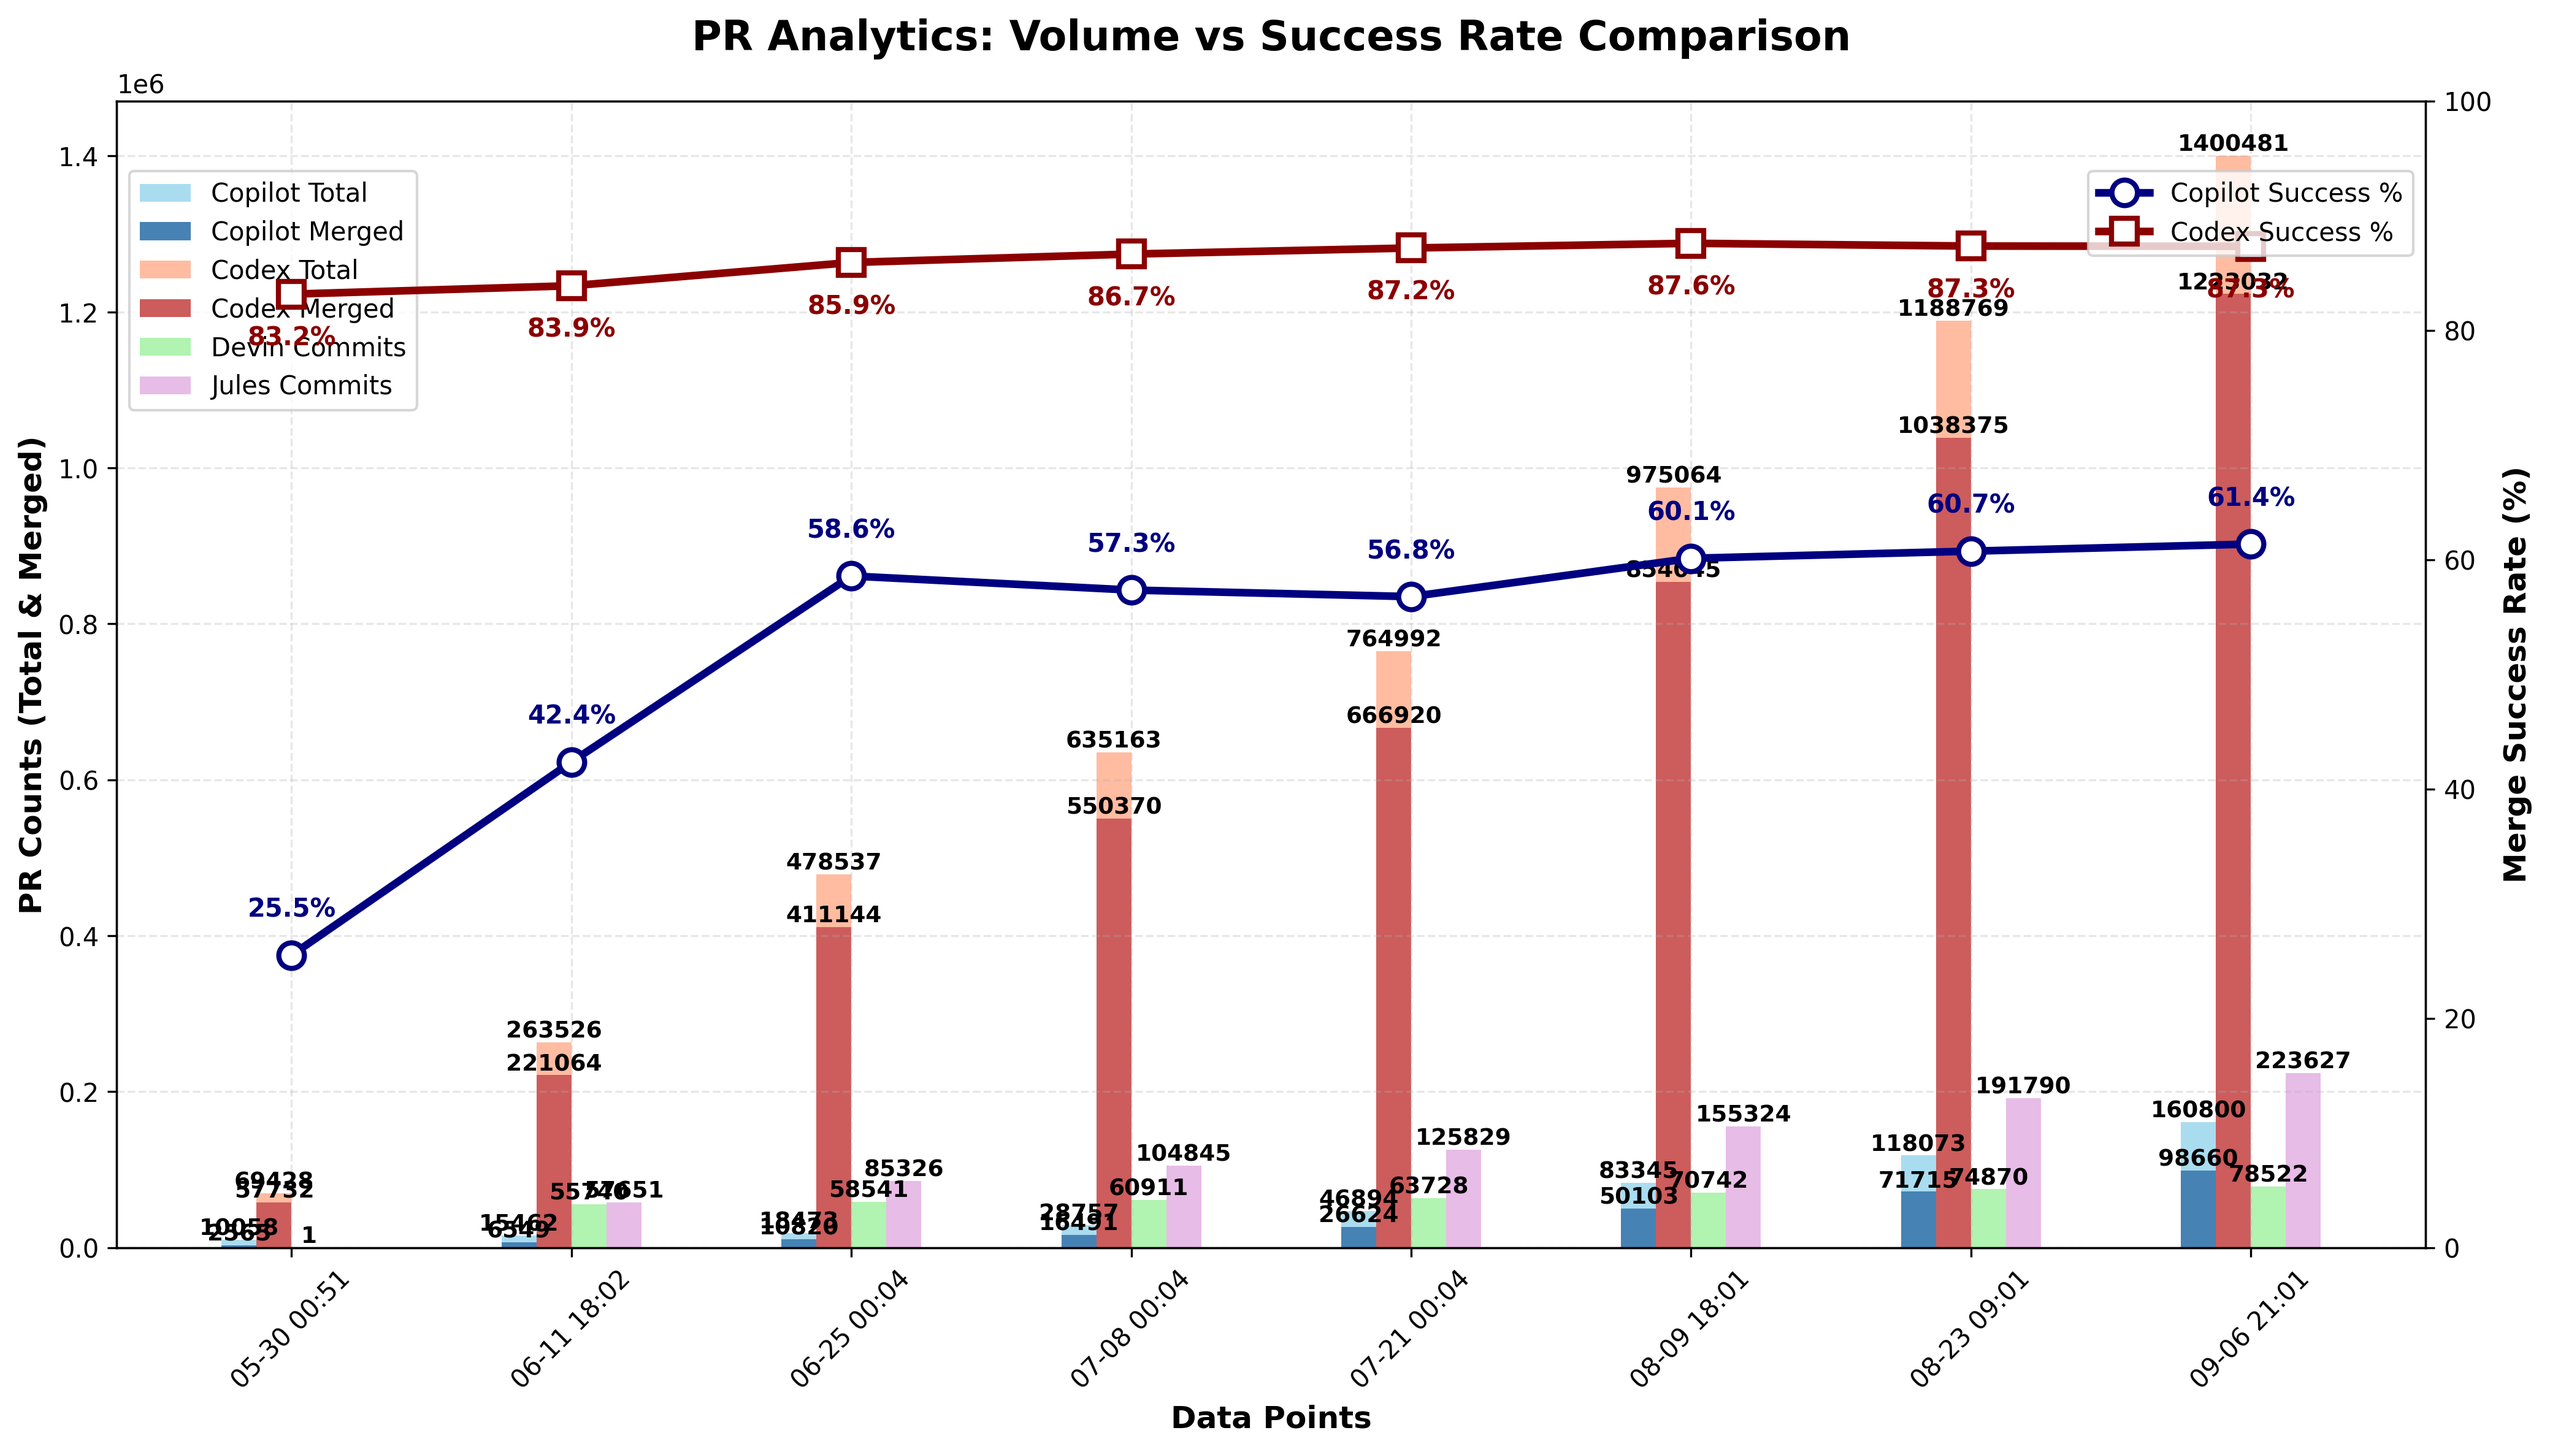
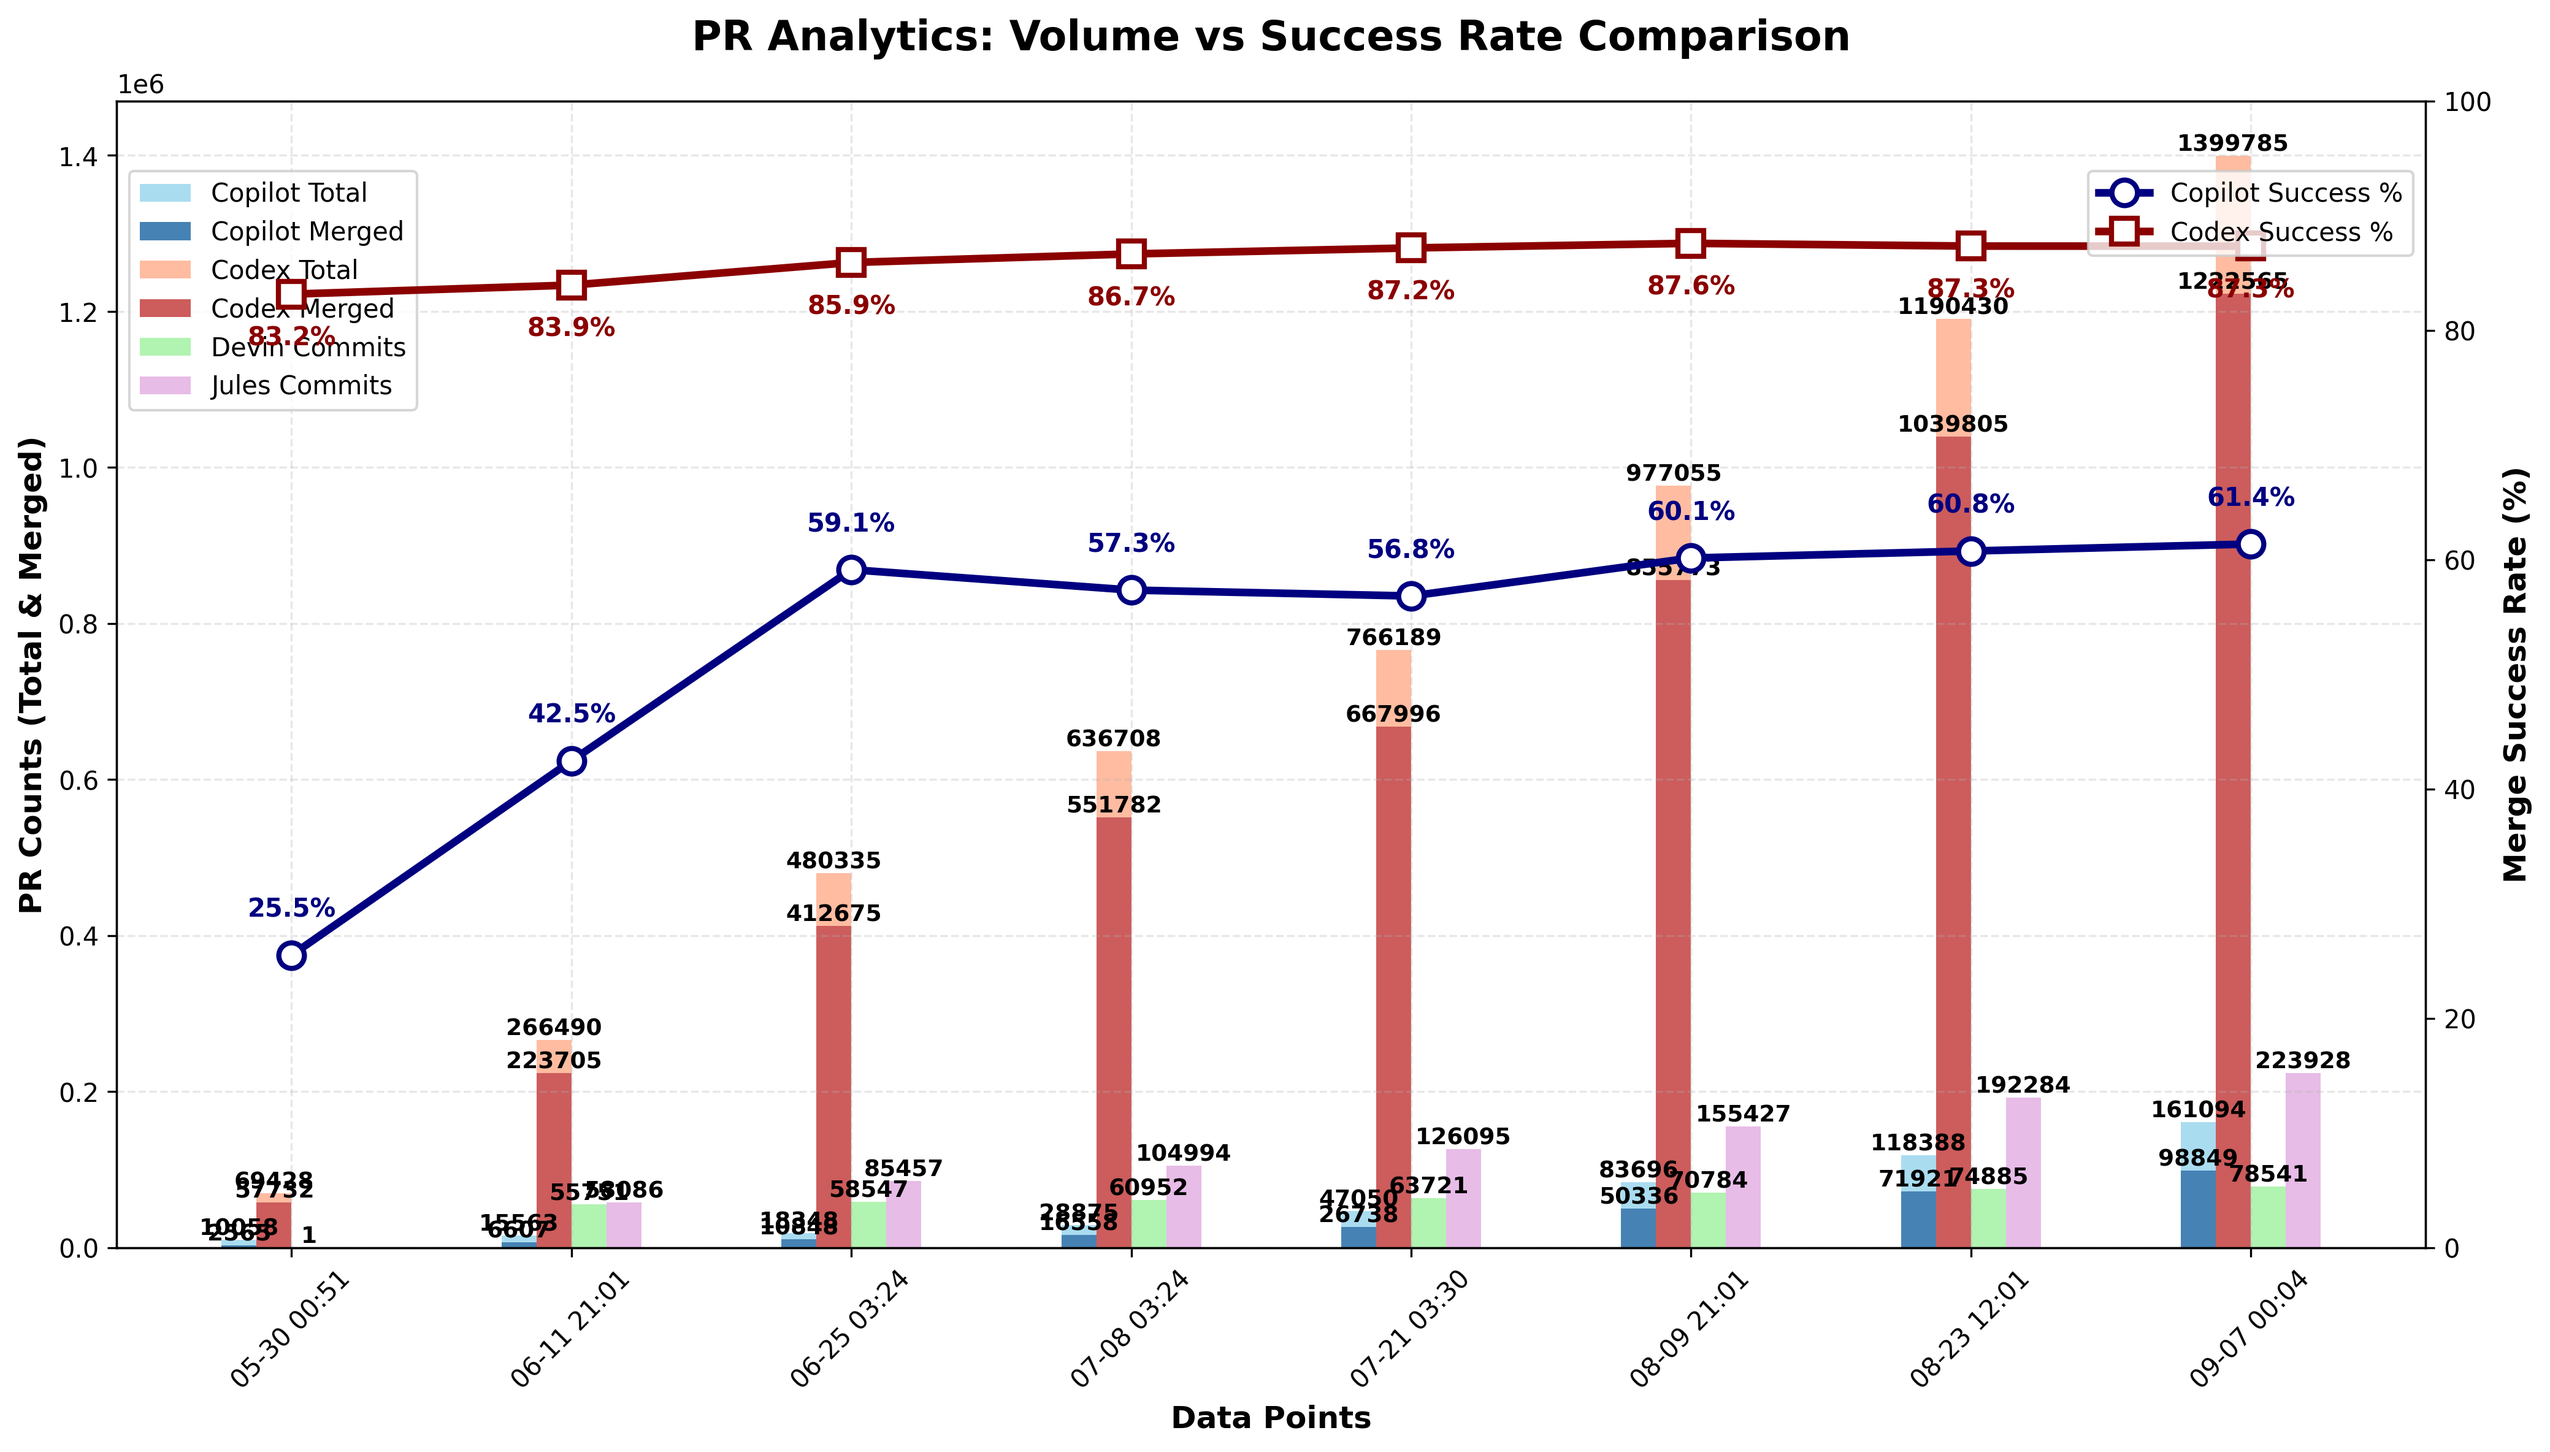
chore: update PR‑approval chart

diff --git a/docs/index.html b/docs/index.html
@@ -775,6 +775,7 @@
                         <td>N/A</td>
                         <td>N/A</td>
                         <td>N/A</td>
+                        <td>N/A</td>
                     </tr>
                     <tr>
                         <td>Codex</td>
@@ -1508,27 +1509,28 @@
                         <td>N/A</td>
                         <td>N/A</td>
                         <td>N/A</td>
+                        <td>N/A</td>
                     </tr>
                 <tr>
                         <td>Devin</td>
                         <td>N/A</td>
                         <td>N/A</td>
                         <td>N/A</td>
-                        <td>78,522</td>
+                        <td>78,541</td>
                     </tr>
                     <tr>
                         <td>Jules</td>
                         <td>N/A</td>
                         <td>N/A</td>
                         <td>N/A</td>
-                        <td>223,627</td>
+                        <td>223,928</td>
                     </tr>
                     </tbody>
             </table>
         </section>
 
         <footer>
-            <p>Last updated: <span id="last-updated">September 06, 2025 21:01 UTC</span></p>
+            <p>Last updated: <span id="last-updated">September 07, 2025 00:04 UTC</span></p>
             <p><a href="https://github.com/aavetis/ai-pr-watcher">View on GitHub</a></p>
         </footer>
     </div>

diff --git a/README.md b/README.md
@@ -19,7 +19,7 @@ Explore the GitHub search queries used:
 
 | Service | Total PRs | Merged PRs | Merge Rate | Total Commits |
 | ------- | --------- | ---------- | ---------- | ------------- |
-| Copilot | 160,800 | 98,660 | 61.36% | N/A           |
-| Codex   | 1,400,481 | 1,223,032 | 87.33% | N/A           |
-| Devin   | N/A       | N/A        | N/A        | 78,522 |
-| Jules   | N/A       | N/A        | N/A        | 223,627 |
+| Copilot | 161,094 | 98,849 | 61.36% | N/A           |
+| Codex   | 1,399,785 | 1,222,565 | 87.34% | N/A           |
+| Devin   | N/A       | N/A        | N/A        | 78,541 |
+| Jules   | N/A       | N/A        | N/A        | 223,928 |
